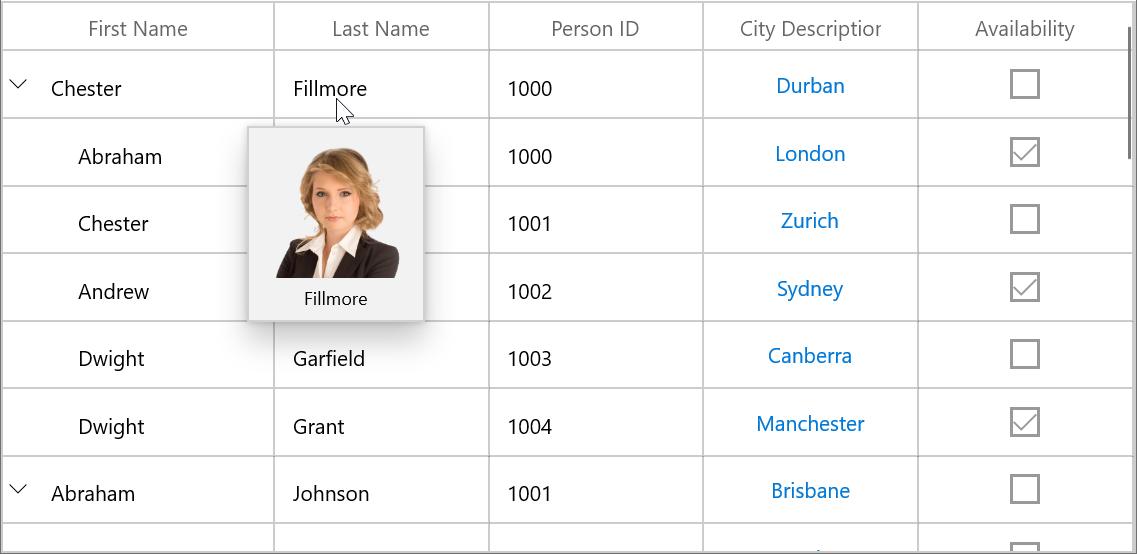
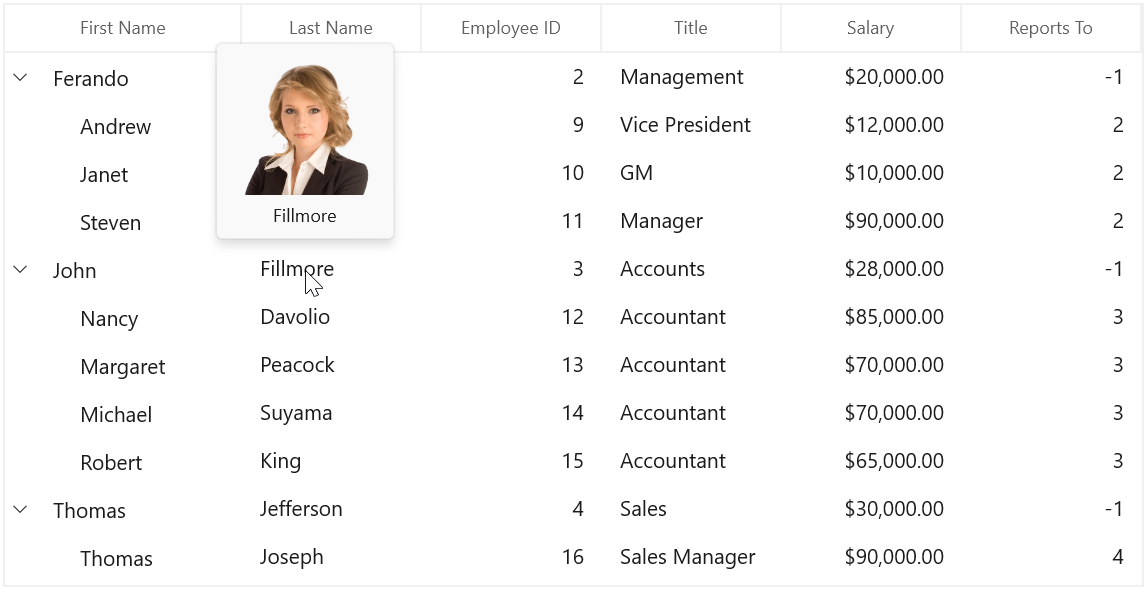
WINUI-2577 : Modify the UG document with Windows 11 style image for TreeGrid - Phase 2

Changed region(s): [[0.0, 0.0, 1.0, 1.0], [0.5233, 0.1227, 0.6464, 0.1534]]

diff --git a/winui/TreeGrid/ToolTip.md b/winui/TreeGrid/ToolTip.md
@@ -18,7 +18,7 @@ You can enable tooltip for the TreeGridCell by setting the [SfTreeGrid.ShowToolT
 {% tabs %}
 {% highlight xaml %}
 
-<syncfusion:SfTreeGrid Name="treeGrid"
+<treeGrid:SfTreeGrid Name="treeGrid"
                        ColumnWidthMode="Star"
                        ShowToolTip="True"
                        AutoExpandMode="RootNodesExpanded"
@@ -26,7 +26,7 @@ You can enable tooltip for the TreeGridCell by setting the [SfTreeGrid.ShowToolT
                        ChildPropertyName="ReportsTo"
                        ItemsSource="{Binding Employees}"
                        ParentPropertyName="ID"
-                       SelfRelationRootValue="-1" >	
+                       SelfRelationRootValue="-1" />	
 
 {% endhighlight %}
 {% highlight c# %}
@@ -41,8 +41,8 @@ You can enable the tooltip of a particular column by setting the [TreeGridColumn
 {% tabs %}
 {% highlight xaml %}
 
-<syncfusion:TreeGridTextColumn HeaderText="First Name" MappingName="FirstName" ShowToolTip="True" />
-<syncfusion:TreeGridTextColumn HeaderText="Last Name" MappingName="LastName" ShowToolTip="True" />
+<treeGrid:TreeGridTextColumn HeaderText="First Name" MappingName="FirstName" ShowToolTip="True" />
+<treeGrid:TreeGridTextColumn HeaderText="Last Name" MappingName="LastName" ShowToolTip="True" />
 
 {% endhighlight %}
 {% highlight c# %}
@@ -55,7 +55,7 @@ this.treeGrid.Columns["LastName"].ShowToolTip = true;
 
 N> It has higher priority than [SfTreeGrid.ShowToolTip](https://help.syncfusion.com/cr/winui/Syncfusion.UI.Xaml.Grids.SfGridBase.html#Syncfusion_UI_Xaml_Grids_SfGridBase_ShowToolTip).
 
-![Showing ToolTip for record cell in WinUI TreeGrid](Tooltip_images/Tooltip_img1.png)
+<img src="Tooltip_images/Tooltip_img1.png" alt="Showing ToolTip for record cell in WinUI TreeGrid" width="100%" Height="Auto"/>
 
 ## Header tooltip
 
@@ -64,9 +64,9 @@ You can enable the tooltip of a header cell by setting the [TreeGridColumn.ShowH
 {% tabs %}
 {% highlight xaml %}
 
-<syncfusion:SfTreeGrid.Columns>
-    <syncfusion:TreeGridTextColumn HeaderText="First Name" MappingName="FirstName" ShowHeaderToolTip="True" />
-</syncfusion:SfTreeGrid.Columns>
+<treeGrid:SfTreeGrid.Columns>
+    <treeGrid:TreeGridTextColumn HeaderText="First Name" MappingName="FirstName" ShowHeaderToolTip="True" />
+</treeGrid:SfTreeGrid.Columns>
 
 {% endhighlight %}
 {% highlight c# %}
@@ -76,7 +76,7 @@ this.treeGrid.Columns["FirstName"].ShowHeaderToolTip = true;
 {% endhighlight %}
 {% endtabs %}
 
-![Showing ToolTip for header cell in WinUI TreeGrid](Tooltip_images/ToolTip_img2.png)
+<img src="Tooltip_images/ToolTip_img2.png" alt="Showing ToolTip for header cell in WinUI TreeGrid" width="100%" Height="Auto"/>
 
 ## Tooltip customization
 
@@ -89,24 +89,24 @@ You can customize appearance of the tooltip of a particular column by setting th
 {% tabs %}
 {% highlight xaml %}
 
-<Page.Resources>
-    <local:StringToImageConverter x:Key="ImageConverter" />
-    <DataTemplate x:Key="TemplateToolTip">
-        <Grid>
-            <Grid.RowDefinitions>
-                <RowDefinition Height="*"/>
-                <RowDefinition Height="*"/>
-            </Grid.RowDefinitions>
-            <Image Height="100" Width="100" Source="{Binding LastName,Converter={StaticResource ImageConverter}}" />
-            <TextBlock Grid.Row="1" Text="{Binding LastName}" HorizontalAlignment="Center"/>
-        </Grid>
-    </DataTemplate>
-</Page.Resources>
-
-
-<syncfusion:SfTreeGrid.Columns>    
-    <syncfusion:TreeGridTextColumn HeaderText="Last Name" MappingName="LastName" ToolTipTemplate="{StaticResource TemplateToolTip}" ShowToolTip="True" />
-</syncfusion:SfTreeGrid.Columns>
+<treeGrid:SfTreeGrid>
+    <treeGrid:SfTreeGrid.Resources>
+        <local:StringToImageConverter x:Key="ImageConverter" />
+        <DataTemplate x:Key="TemplateToolTip">
+            <Grid>
+                <Grid.RowDefinitions>
+                    <RowDefinition Height="*"/>
+                    <RowDefinition Height="*"/>
+                </Grid.RowDefinitions>
+                <Image Height="100" Width="100" Source="{Binding LastName,Converter={StaticResource ImageConverter}}" />
+                <TextBlock Grid.Row="1" Text="{Binding LastName}" HorizontalAlignment="Center"/>
+            </Grid>
+        </DataTemplate>
+    </treeGrid:SfTreeGrid.Resources>
+    <treeGrid:SfTreeGrid.Columns>    
+        <treeGrid:TreeGridTextColumn HeaderText="Last Name" MappingName="LastName" ToolTipTemplate="{StaticResource TemplateToolTip}" ShowToolTip="True" />   
+    </treeGrid:SfTreeGrid.Columns>
+</treeGrid:SfTreeGrid>
 
 {% endhighlight %}
 {% highlight c# %}
@@ -128,7 +128,7 @@ public class StringToImageConverter : IValueConverter
 {% endhighlight %}
 {% endtabs %}
 
-![WinUI treeGrid with Customized ToolTip Support](ToolTip_images/ToolTip_img3.png)
+<img src="ToolTip_images/ToolTip_img3.png" alt="WinUI treeGrid with Customized ToolTip Support" width="100%" Height="Auto"/>
 
 N> View sample in [GitHub](https://github.com/SyncfusionExamples/How-to-customize-the-tooltip-using-DataTemplate-in-winui-datagrid).
 
@@ -148,13 +148,15 @@ The [CellToolTipOpening](https://help.syncfusion.com/cr/winui/Syncfusion.UI.Xaml
 
 {% tabs %}
 {% highlight xaml %}
-<syncfusion:SfTreeGrid Name="treeGrid"
+<treeGrid:SfTreeGrid Name="treeGrid"
                        ColumnWidthMode="Star"
                        AutoExpandMode="RootNodesExpanded"
                        AutoGenerateColumns="False"
-                       ChildPropertyName="Children"
                        CellToolTipOpening="treeGrid_CellToolTipOpening"
-                       ItemsSource="{Binding EmployeeDetails}" >
+                       ChildPropertyName="ReportsTo"
+                       ItemsSource="{Binding Employees}"
+                       ParentPropertyName="ID"
+                       SelfRelationRootValue="-1"/>
 {% endhighlight %}
 {% highlight c# %}
 this.treeGrid.CellToolTipOpening += TreeGrid_CellToolTipOpening;

diff --git a/winui/TreeGrid/Node-CheckBox.md b/winui/TreeGrid/Node-CheckBox.md
@@ -12,7 +12,7 @@ SfTreeGrid provides support for loading `CheckBox` in the expander cell of each 
 
 {% tabs %}
 {% highlight xaml %}
-<syncfusion:SfTreeGrid Name="treeGrid"
+<treeGrid:SfTreeGrid Name="treeGrid"
                        ChildPropertyName="ReportsTo"
                        ItemsSource="{Binding Employees}"
                        CheckBoxSelectionMode="Default"
@@ -34,7 +34,7 @@ You can enable or disable the indeterminate state for node CheckBox using [SfTre
 
 {% tabs %}
 {% highlight xaml %}
-<syncfusion:SfTreeGrid Name="treeGrid"
+<treeGrid:SfTreeGrid Name="treeGrid"
                        ChildPropertyName="ReportsTo"
                        ItemsSource="{Binding Employees}"
                        AllowTriStateChecking="True"
@@ -57,7 +57,7 @@ SfTreeGrid provides support for recursive checking where the checked state of pa
 
 {% tabs %}
 {% highlight xaml %}
-<syncfusion:SfTreeGrid Name="treeGrid"
+<treeGrid:SfTreeGrid Name="treeGrid"
                        ChildPropertyName="ReportsTo"
                        ItemsSource="{Binding Employees}"
                        EnableRecursiveChecking="True"
@@ -223,7 +223,7 @@ If you don’t want to affect the selection while checking/unchecking the node C
 
 {% tabs %}
 {% highlight xaml %}
-<syncfusion:SfTreeGrid Name="treeGrid"
+<treeGrid:SfTreeGrid Name="treeGrid"
                        CheckBoxSelectionMode="Default"
                        ItemsSource="{Binding PersonDetails}"
                        ShowCheckBox="True"/>
@@ -245,7 +245,7 @@ Navigation, editing and programmatic selection are not supported in this mode.
 
 {% tabs %}
 {% highlight xaml %}
-<syncfusion:SfTreeGrid Name="treeGrid"
+<treeGrid:SfTreeGrid Name="treeGrid"
                        CheckBoxSelectionMode="SelectOnCheck"
                        ItemsSource="{Binding PersonDetails}"
                        ShowCheckBox="True"/>
@@ -264,7 +264,7 @@ If you want to synchronize the selection with node CheckBox’s IsChecked state,
 
 {% tabs %}
 {% highlight xaml %}
-<syncfusion:SfTreeGrid Name="treeGrid"
+<treeGrid:SfTreeGrid Name="treeGrid"
                        CheckBoxSelectionMode="SynchronizeSelection"
                        ItemsSource="{Binding PersonDetails}"
                        ShowCheckBox="True"/>
